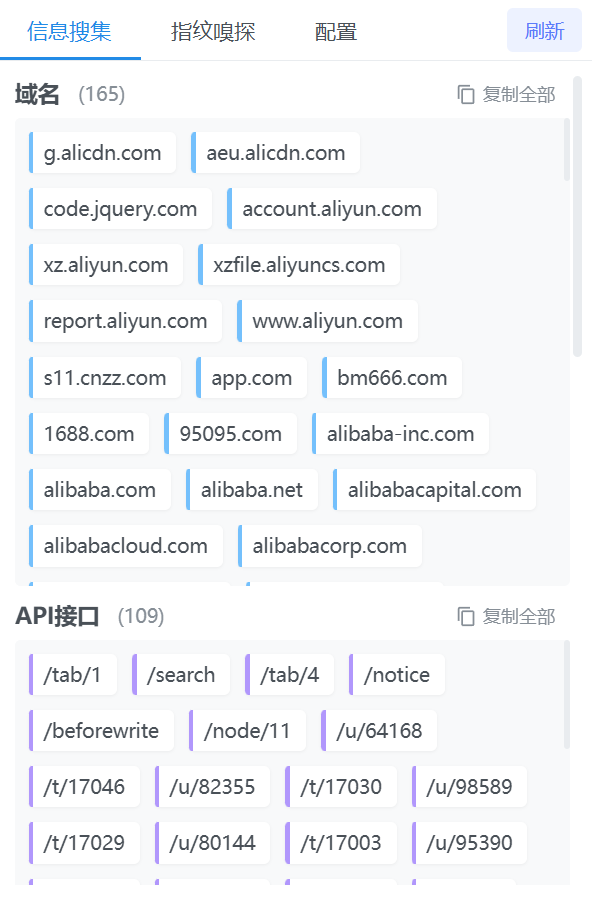
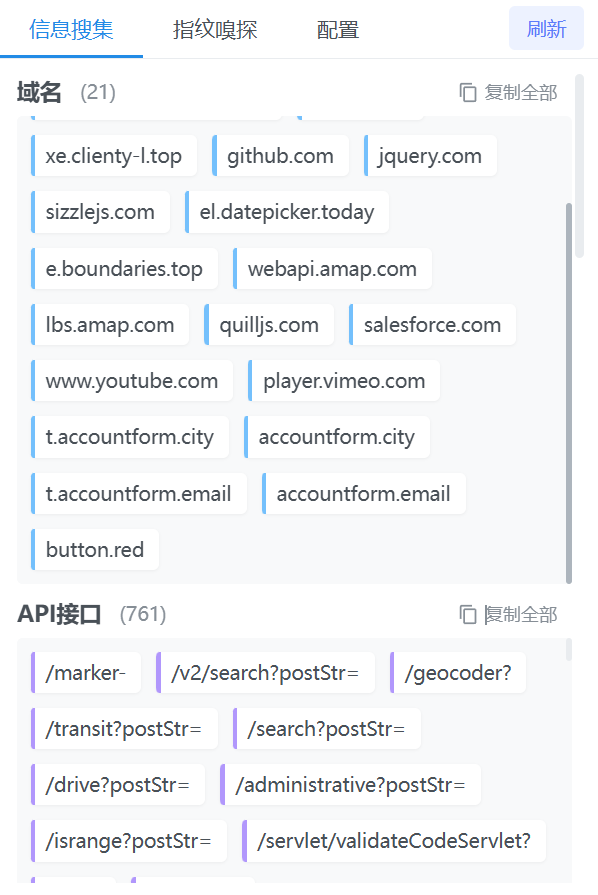
v0.2.2.3

diff --git a/popup/popup.js b/popup/popup.js
@@ -55,15 +55,17 @@ function displayResults(results) {
   const sections = [
     { id: 'domain-list', data: results.domains, title: '域名' },
     { id: 'api-list', data: results.apis, title: 'API接口' },
-    { id: 'vue-list', data: results.vueFiles, title: 'Vue文件' },
-    { id: 'static-list', data: results.staticFiles, title: '静态文件' },
+    { id: 'doc-list', data: results.docFiles, title: '文档文件' },
+    { id: 'aws-list', data: results.awsKeys, title: 'AWS Key' },
     { id: 'ip-list', data: results.ips, title: 'IP地址' },
     { id: 'phone-list', data: results.phones, title: '手机号码' },
     { id: 'email-list', data: results.emails, title: '邮箱' },
     { id: 'idcard-list', data: results.idcards, title: '身份证号' },
-    { id: 'url-list', data: results.urls, title: 'URL' },
     { id: 'jwt-list', data: results.jwts, title: 'JWT Token' },
-    { id: 'aws-list', data: results.awsKeys, title: 'AWS Key' },
+    { id: 'js-list', data: results.jsFiles, title: 'JS文件' },
+    { id: 'vue-list', data: results.vueFiles, title: 'Vue文件' },
+    { id: 'image-list', data: results.imageFiles, title: '图片资源' },
+    { id: 'url-list', data: results.urls, title: 'URL' },
     { id: 'hash-md5-list', data: results.hashes?.md5, title: 'MD5哈希' },
     { id: 'hash-sha1-list', data: results.hashes?.sha1, title: 'SHA1哈希' },
     { id: 'hash-sha256-list', data: results.hashes?.sha256, title: 'SHA256哈希' }

diff --git a/content/config/scanner.config.js b/content/config/scanner.config.js
@@ -20,12 +20,18 @@ const SCANNER_CONFIG = {
   // API 相关配置
   API: {
     PATTERN: /['"`](?:\/|\.\.\/|\.\/)[^\/\>\< \)\(\}\,\'\"\\](?:[^\^\>\< \)\(\{\}\,\'\"\\])*?['"`]|['"`][a-zA_Z0-9]+(?<!text|application)\/(?:[^\^\>\< \)\(\{\}\,\'\"\\])*?["'`]/g,
-    // 静态文件后缀 - 增强匹配规则
-    STATIC_FILE_PATTERN: /\.(js|css|ico|png|webp|jpg|jpeg|gif|svg|woff|woff2|ttf|eot|map|json|jsonp)(?:\?[^'"]*)?$/i,
+    // 图片文件模式
+    IMAGE_PATTERN: /\.(jpg|jpeg|png|gif|bmp|webp|svg|ico)(?:\?[^'"]*)?$/i,
+    // JS文件模式
+    JS_PATTERN: /\.(js|jsx|ts|tsx)(?:\?[^'"]*)?$/i,
+    // 文档文件模式
+    DOC_PATTERN: /\.(pdf|doc|docx|xls|xlsx|ppt|exe|apk|pptx|txt|md|csv)(?:\?[^'"]*)?$/i,
     // 需要跳过的第三方JS库
     SKIP_JS_FILES: [
       'layui.js',
       'layui.min.js',
+      'layui.all.js',
+      'layui.all.min.js',
       'jquery.js',
       'jquery.min.js',
       'vue.js',

diff --git a/content/filters/scanner.filter.js b/content/filters/scanner.filter.js
@@ -11,10 +11,26 @@ const SCANNER_FILTER = {
         resultsSet?.vueFiles?.add(match);
         return true;
       }
+
+      //如果是css文件则丢弃
+      if (match.endsWith('.css')) {
+        return true;
+      }
       
-      // 检查是否是静态文件
-      if (SCANNER_CONFIG.API.STATIC_FILE_PATTERN.test(match)) {
-        resultsSet?.staticFiles?.add(match);
+      if (SCANNER_CONFIG.API.IMAGE_PATTERN.test(match)) {
+        resultsSet?.imageFiles?.add(match);
+        return true;
+      }
+
+      // 检查是否是JS文件
+      if (SCANNER_CONFIG.API.JS_PATTERN.test(match)) {
+        resultsSet?.jsFiles?.add(match);
+        return true;
+      }
+
+      // 检查是否是文档文件
+      if (SCANNER_CONFIG.API.DOC_PATTERN.test(match)) {
+        resultsSet?.docFiles?.add(match);
         return true;
       }
 

diff --git a/content/content.js b/content/content.js
@@ -16,7 +16,9 @@ const waitForDependencies = () => {
 const latestResults = {
   domains: new Set(),     // 域名结果集
   apis: new Set(),        // API 结果集
-  staticFiles: new Set(), // 静态文件结果集
+  imageFiles: new Set(),  // 图片文件结果集
+  jsFiles: new Set(),     // JS文件结果集
+  docFiles: new Set(),    // 文档文件结果集
   vueFiles: new Set(),    // Vue 文件结果集
   ips: new Set(),         // IP 地址结果集
   phones: new Set(),      // 手机号结果集

diff --git a/popup/highlight.css b/popup/highlight.css
@@ -366,8 +366,16 @@ body {
   background: #41B883;  /* Vue绿色 - Vue文件 */
 }
 
-.static-list .item::before {
-  background: #20c997;  /* 青绿色 - 静态文件 */
+.image-list .item::before {
+  background: #ff922b;  /* 橙色 - 图片资源 */
+}
+
+.js-list .item::before {
+  background: #20c997;  /* 青绿色 - JS文件 */
+}
+
+.doc-list .item::before {
+  background: #748ffc;  /* 靛蓝色 - 文档文件 */
 }
 
 .ip-list .item::before {

diff --git a/README.md b/README.md
@@ -66,6 +66,7 @@
 <div style="text-align:center">
     <img src="icons/souji1.png" alt="信息收集界面" width="80%">
     <img src="icons/souji2.png" alt="信息收集界面" width="80%">
+    <img src="icons/souji3.png" alt="信息收集界面" width="80%">
 </div>
 
 ### 白名单页面
@@ -121,8 +122,9 @@
 - 修复配置信息不能展示的问题
 ### 2025-01-15
 - 删除冗余代码
-- 增加第三方库跳过，减少不必要的搜索
-- 完善API分离逻辑，增加三方库过滤
+- 增加第三方库过滤，减少不必要的搜索
+- 完善API分离逻辑，增加更多的三方库
+- 拆分静态资源，提取js，文档和图片
 ---
 
 **雪瞳——洞悉无形，守护无界。**
